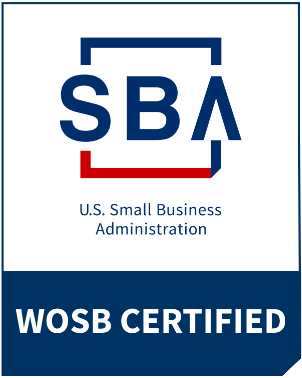
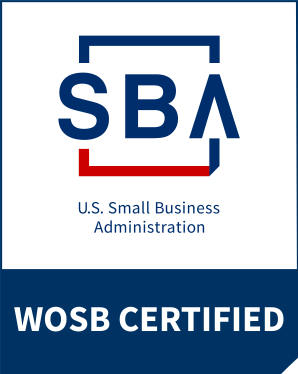
Add footer

diff --git a/stories/Footer.stories.js b/stories/Footer.stories.js
@@ -18,46 +18,55 @@ const bootstrapIconEnvelope = `
 
 export const Footer = (args) => `
   <footer class="footer">
-    <div class="l-wrapper">
-      <div class="l-cluster">
-        <div>
-          <h3 class="h4">Work</h3>
-          <ul>
-            <li><a href="https://bloomworks.digital/services/">Services</a></li>
-            <li><a href="https://bloomworks.digital/work/">Case Studies</a></li>
-            <li><a href="https://bloomworks.digital/contracting/">Contracting</a></li>
-          </ul>
-        </div>
-
-        <div>
-          <h3 class="h4">Resources</h3>
-          <ul>
-            <li><a href="">Discovery Playbook</a></li>
-            <li><a href="">Employee Handbook</a></li>
-            <li><a href="https://medium.com/pollinator">Pollinator</a></li>
-          </ul>
-        </div>
-
-        <div>
-          <h3 class="h4">About Us</h3>
-          <ul>
-            <li><a href="https://bloomworks.digital/mission/">Our Mission</a></li>
-            <li><a href="https://bloomworks.digital/team/">Our Team</a></li>
-            <li><a href="https://bloomworks.digital/jobs/">Jobs</a></li>
-          </ul>
-        </div>
-      </div>
-
-      <div class="l-cluster">
-        <div class="footer-meta">
-          <img src="/images/bloom-logo-white.svg" alt="Logo for Bloom Works" />
+    <div class="footer-sba-banner">
+      <div class="l-wrapper">
+        <p>
           <img src="/images/sba.png" alt="Small Business Adminstration Women-Owned Small Business Certification" />
-          <span>© 2023 Bloom Works</span>
+          <span>Bloom Works is certified as a Women-Owned Small Business by the U.S. Small Business Administration.</span>
+        </p>
+      </div>
+    </div>
+    <div class="footer-inner">
+      <div class="l-wrapper">
+        <div class="l-cluster">
+          <div>
+            <h3 class="h4">Work</h3>
+            <ul>
+              <li><a href="https://bloomworks.digital/services/">Services</a></li>
+              <li><a href="https://bloomworks.digital/work/">Case Studies</a></li>
+              <li><a href="https://bloomworks.digital/contracting/">Contracting</a></li>
+            </ul>
+          </div>
+
+          <div>
+            <h3 class="h4">Resources</h3>
+            <ul>
+              <li><a href="">Discovery Playbook</a></li>
+              <li><a href="">Employee Handbook</a></li>
+              <li><a href="https://medium.com/pollinator">Pollinator</a></li>
+            </ul>
+          </div>
+
+          <div>
+            <h3 class="h4">About Us</h3>
+            <ul>
+              <li><a href="https://bloomworks.digital/mission/">Our Mission</a></li>
+              <li><a href="https://bloomworks.digital/team/">Our Team</a></li>
+              <li><a href="https://bloomworks.digital/jobs/">Jobs</a></li>
+            </ul>
+          </div>
         </div>
 
-        <div class="footer-icons">
-          <a href="mailto:hello@bloomworks.digital">${bootstrapIconEnvelope} <span class="sr-only">Email Us</span></a>
-          <a href="https://www.linkedin.com/company/govbloom/">${bootstrapIconLinkedIn} <span class="sr-only">LinkedIn</span></a>
+        <div class="l-cluster">
+          <div class="footer-meta">
+            <img src="/images/bloom-logo-white.svg" alt="Logo for Bloom Works" />
+            <span>© 2023 Bloom Works</span>
+          </div>
+
+          <div class="footer-icons">
+            <a href="mailto:hello@bloomworks.digital">${bootstrapIconEnvelope} <span class="sr-only">Email Us</span></a>
+            <a href="https://www.linkedin.com/company/govbloom/">${bootstrapIconLinkedIn} <span class="sr-only">LinkedIn</span></a>
+          </div>
         </div>
       </div>
     </div>

diff --git a/stories/scss/components/footer.css b/stories/scss/components/footer.css
@@ -1,5 +1,8 @@
 .footer {
   background: var(--c-accent);
+}
+
+.footer-inner {
   padding-block: calc(var(--t-leading-rem) * 2);
 }
 
@@ -51,13 +54,32 @@
   max-width: var(--t-leading-rem);
 }
 
-.footer-icons {
-}
-
 .footer-icons a {
   text-decoration: none;
 }
 
 .footer svg {
   width: var(--t-leading-rem);
+}
+
+.footer-sba-banner {
+  background: #04301B;
+  color: var(--c-accent-text);
+}
+
+.footer-sba-banner p {
+  display: flex;
+  flex-direction: column;
+  text-align: center;
+  padding-block: var(--t-leading-rem);
+  gap: 1em;
+  font-size: var(--t-small);
+  align-items: center;
+  justify-content: center;
+  margin-inline: auto;
+  text-wrap: balance;
+}
+
+.footer-sba-banner img {
+  max-width: calc(var(--t-leading-rem) * 2);
 }
